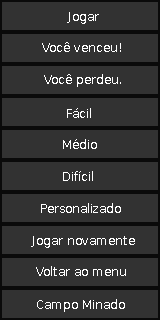
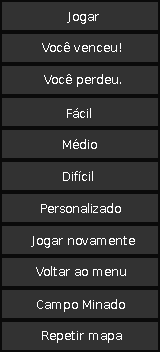
talvez finais

Changed region(s): [[0.0, 0.0312, 1.0, 0.9688]]

diff --git a/src/menu.c b/src/menu.c
@@ -20,8 +20,11 @@ enum BUTTON_ID{
 	BUTTON_ID_AGAIN,
 	BUTTON_ID_BACK,
 	BUTTON_ID_TITLE,
+	BUTTON_ID_REPEAT,
 	BACKRETRY_ID_BACK = 0,
 	BACKRETRY_ID_RETRY = 1,
+	BACKRETRY_ID_MINUS = 2,
+	BACKRETRY_ID_PLUS = 3
 };
 
 enum MENU_STATES{
@@ -70,12 +73,14 @@ struct{
 		Button gameover_button;
 		Button again;
 		Button back;
+		Button repeat;
 	} gameover;
 
 	struct{
 		Button youwin_button;
 		Button again;
 		Button back;
+		Button repeat;
 	} youwin;
 
 	struct{
@@ -257,8 +262,18 @@ void Menu_Init(Game *game){
 			BUTTON_ID_BACK
 			);
 
+	menu.youwin.repeat = Button_Create(
+			BUTTON_OFFSET_X,
+			0,
+			360,
+			240,
+			game->button_texture,
+			BUTTON_ID_REPEAT
+			);
+
 	menu.gameover.back = menu.youwin.back;
 	menu.gameover.again = menu.youwin.again;
+	menu.gameover.repeat = menu.youwin.repeat;
 
 	menu.difficulty.easy = Button_Create(
 			BUTTON_OFFSET_X,
@@ -386,6 +401,7 @@ void Menu_Update(Game *game){
 				Button_Reset(&menu.youwin.youwin_button);
 				Button_Reset(&menu.youwin.again);
 				Button_Reset(&menu.youwin.back);
+				Button_Reset(&menu.youwin.repeat);
 			}
 
 			if(Board_HasLost(menu.board)){
@@ -393,6 +409,7 @@ void Menu_Update(Game *game){
 				Button_Reset(&menu.gameover.gameover_button);
 				Button_Reset(&menu.gameover.again);
 				Button_Reset(&menu.gameover.back);
+				Button_Reset(&menu.gameover.repeat);
 			}
 
 			if(Button_Pressed(game, &menu.retry)){
@@ -420,6 +437,7 @@ void Menu_Update(Game *game){
 			Button_Update(game, &menu.gameover.gameover_button);
 			Button_Update(game, &menu.gameover.back);
 			Button_Update(game, &menu.gameover.again);
+			Button_Update(game, &menu.gameover.repeat);
 
 			if(Button_Pressed(game, &menu.gameover.back)){
 				menu.state = MENU_MAIN;
@@ -439,12 +457,19 @@ void Menu_Update(Game *game){
 						);
 				menu.timer = 0;
 			}
+
+			if(Button_Pressed(game, &menu.gameover.repeat)){
+				menu.state = MENU_PLAY;
+				Board_RepeatMap(menu.board);
+				menu.timer = 0;
+			}
 			break;
 
 		case MENU_WIN:
 			Button_Update(game, &menu.youwin.youwin_button);
 			Button_Update(game, &menu.youwin.back);
 			Button_Update(game, &menu.youwin.again);
+			Button_Update(game, &menu.youwin.repeat);
 
 			if(Button_Pressed(game, &menu.youwin.back)){
 				menu.state = MENU_MAIN;
@@ -463,6 +488,12 @@ void Menu_Update(Game *game){
 						menu.board_options.bombs
 						);
 
+				menu.timer = 0;
+			}
+
+			if(Button_Pressed(game, &menu.youwin.repeat)){
+				menu.state = MENU_PLAY;
+				Board_RepeatMap(menu.board);
 				menu.timer = 0;
 			}
 
@@ -508,6 +539,7 @@ void Menu_Render(Game *game){
 			Button_Render(game, &menu.gameover.gameover_button);
 			Button_Render(game, &menu.gameover.back);
 			Button_Render(game, &menu.gameover.again);
+			Button_Render(game, &menu.gameover.repeat);
 
 			Draw_DrawTextWithBox(
 					game->context,
@@ -525,6 +557,7 @@ void Menu_Render(Game *game){
 			Button_Render(game, &menu.youwin.youwin_button);
 			Button_Render(game, &menu.youwin.back);
 			Button_Render(game, &menu.youwin.again);
+			Button_Render(game, &menu.youwin.repeat);
 
 			Draw_DrawTextWithBox(
 					game->context,

diff --git a/src/board.c b/src/board.c
@@ -225,6 +225,11 @@ Board * Board_Create(int width, int height, int bombs){
 	return board;
 }
 
+void Board_RepeatMap(Board *board){
+	for(int i = 0; i < board->width * board->height; i++)
+		board->shown[i] = NOT_SHOWN;
+}
+
 int Board_HasLost(Board *board){
 	int id;
 

diff --git a/src/board.h b/src/board.h
@@ -34,6 +34,8 @@ typedef struct{
 
 Board * Board_Create(int width, int height, int bombs);
 
+void Board_RepeatMap(Board *board);
+
 int Board_HasLost(Board *board);
 
 int Board_HasWon(Board *board);
